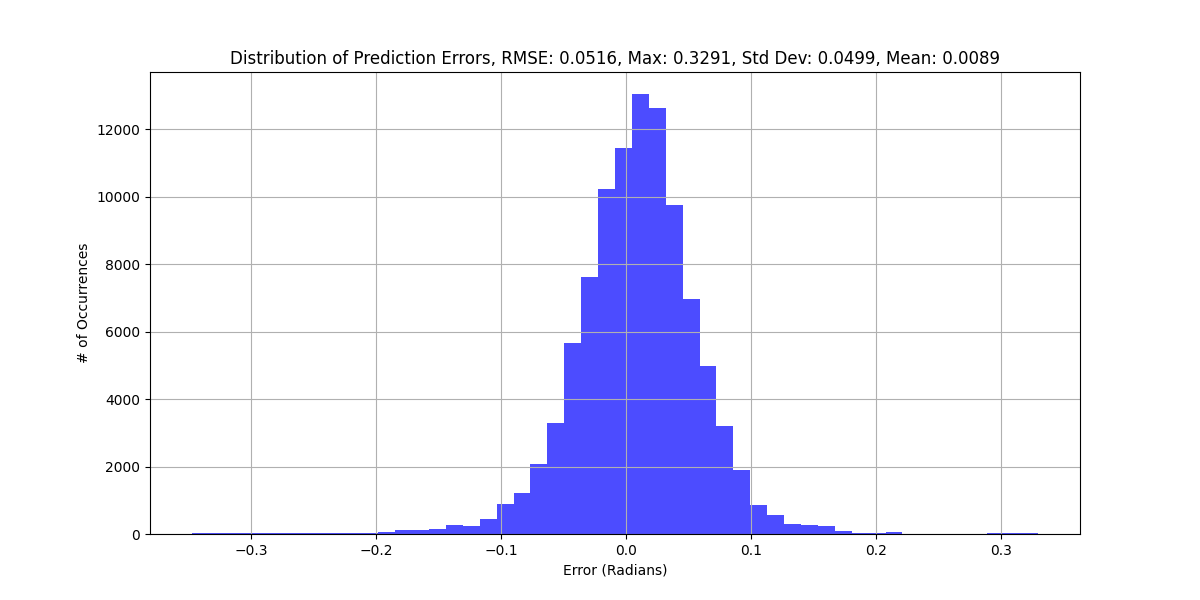
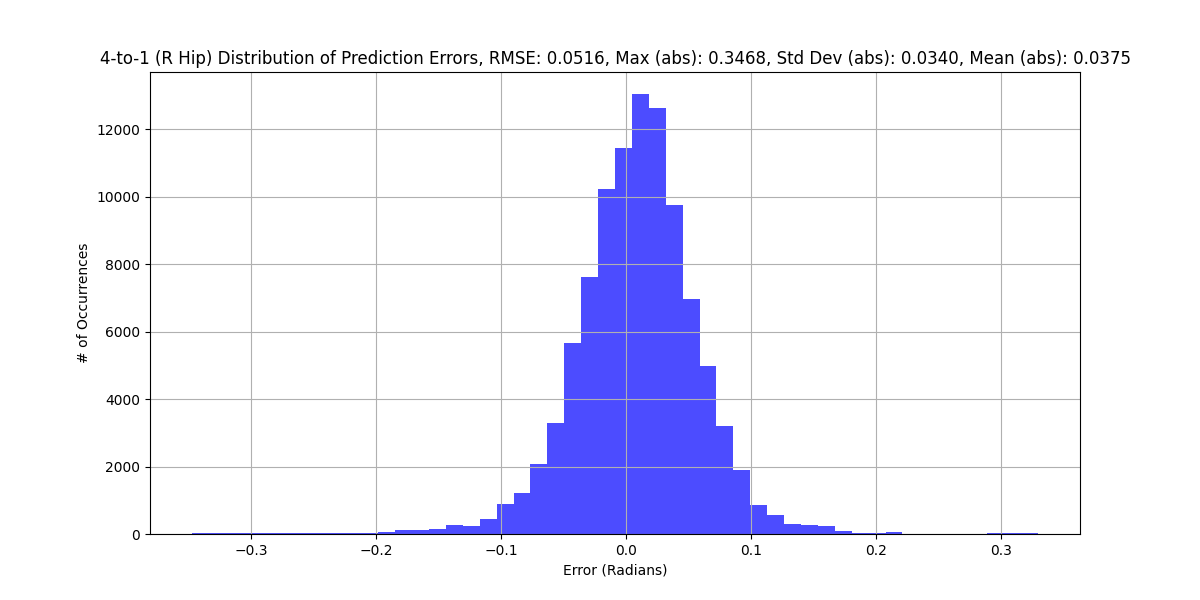
Updated error histograms with better metrics for 4to1 and 4to4

Changed region(s): [[0.0925, 0.06, 0.9558, 0.12]]

diff --git a/lstm_4to1/validation.py b/lstm_4to1/validation.py
@@ -101,46 +101,46 @@ pred_peaks, _ = find_peaks(-therapist_pred, height=0.5, distance=1000)  # ONLY N
 periodic_pred = [therapist_pred[pred_peaks[i]:pred_peaks[i+1]] for i in range(len(pred_peaks)-1)]
 
 # Normalize periodic data
-normalized_length = 101
-normalized_periodic_data = []
-normalized_periodic_pred = []
-for period in periodic_data:
-    cur_time = np.linspace(0, 1, len(period))
-    new_time = np.linspace(0, 1, normalized_length)
-    interp = interp1d(cur_time, period, kind='linear')
-    norm_period = interp(new_time)
-    normalized_periodic_data.append(norm_period)
-for period in periodic_pred:
-    cur_time = np.linspace(0, 1, len(period))
-    new_time = np.linspace(0, 1, normalized_length)
-    interp = interp1d(cur_time, period, kind='linear')
-    norm_period = interp(new_time)
-    normalized_periodic_pred.append(norm_period)
+# normalized_length = 101
+# normalized_periodic_data = []
+# normalized_periodic_pred = []
+# for period in periodic_data:
+#     cur_time = np.linspace(0, 1, len(period))
+#     new_time = np.linspace(0, 1, normalized_length)
+#     interp = interp1d(cur_time, period, kind='linear')
+#     norm_period = interp(new_time)
+#     normalized_periodic_data.append(norm_period)
+# for period in periodic_pred:
+#     cur_time = np.linspace(0, 1, len(period))
+#     new_time = np.linspace(0, 1, normalized_length)
+#     interp = interp1d(cur_time, period, kind='linear')
+#     norm_period = interp(new_time)
+#     normalized_periodic_pred.append(norm_period)
 
-# Get mean and std dev of normalized data and pred
-stacked_data = np.vstack(normalized_periodic_data)
-stacked_pred = np.vstack(normalized_periodic_pred)
-mean_data = np.mean(stacked_data, axis=0)
-mean_pred = np.mean(stacked_pred, axis=0)
-std_data = np.std(stacked_data, axis=0)
-std_pred = np.std(stacked_pred, axis=0)
-print(f'Stacked Data Size: {stacked_data.shape}')
-print(f'Stacked Pred Size: {stacked_pred.shape}')
+# # Get mean and std dev of normalized data and pred
+# stacked_data = np.vstack(normalized_periodic_data)
+# stacked_pred = np.vstack(normalized_periodic_pred)
+# mean_data = np.mean(stacked_data, axis=0)
+# mean_pred = np.mean(stacked_pred, axis=0)
+# std_data = np.std(stacked_data, axis=0)
+# std_pred = np.std(stacked_pred, axis=0)
+# print(f'Stacked Data Size: {stacked_data.shape}')
+# print(f'Stacked Pred Size: {stacked_pred.shape}')
 
-# Get errors for periodic data
-# Must stay commented out until periodic data is set correctly
-mean_err = np.mean(abs(stacked_data - stacked_pred), axis=0)
-std_err = np.std(abs(stacked_data - stacked_pred), axis=0)
+# # Get errors for periodic data
+# # Must stay commented out until periodic data is set correctly
+# mean_err = np.mean(abs(stacked_data - stacked_pred), axis=0)
+# std_err = np.std(abs(stacked_data - stacked_pred), axis=0)
 
 # ALL PLOTTING HAPPENS BELOW HERE. READ INSTRUCTIONS FOR CREATING BEST PLOTS
 # Plot histogram of errors
-# plt.figure(figsize=(12, 6))
-# plt.hist(errors, bins=50, alpha=0.7, color='blue')
-# plt.xlabel('Error (Radians)')
-# plt.ylabel('# of Occurrences')
-# plt.title(f'4-to-1 (R Knee) Distribution of Prediction Errors, RMSE: {valid_rmse:.4f}, Max (abs): {abs(errors).max():.4f}, Std Dev: {errors.std():.4f}, Mean: {errors.mean():.4f}')
-# plt.grid(True)
-# plt.show()
+plt.figure(figsize=(12, 6))
+plt.hist(errors, bins=50, alpha=0.7, color='blue')
+plt.xlabel('Error (Radians)')
+plt.ylabel('# of Occurrences')
+plt.title(f'4-to-1 (R Knee) Distribution of Prediction Errors, RMSE: {valid_rmse:.4f}, Max (abs): {abs(errors).max():.4f}, Std Dev (abs): {abs(errors).std():.4f}, Mean (abs): {abs(errors).mean():.4f}')
+plt.grid(True)
+plt.show()
 
 # Plot only validation data with prediction overlay
 # Change xlim for desired time steps

diff --git a/lstm_4to4/validation.py b/lstm_4to4/validation.py
@@ -240,7 +240,7 @@ for i in range(4):
     plt.hist(errors[:, i], bins=50, alpha=0.7, color='blue')
     plt.xlabel('Error (Radians)')
     plt.ylabel('# of Occurrences')
-    plt.title(f'Joint {i+1}, RMSE: {joint_rmses[i]:.4f}, Max (abs): {abs(errors[:,i]).max():.4f}, Std Dev: {errors[:,i].std():.4f}, Mean: {errors[:,i].mean():.4f}')
+    plt.title(f'Joint {i+1}, RMSE: {joint_rmses[i]:.4f}, Max (abs): {abs(errors[:,i]).max():.4f}, Std Dev (abs): {abs(errors[:,i]).std():.4f}, Mean (abs): {abs(errors[:,i]).mean():.4f}')
     plt.grid(True)
 plt.show()
 
